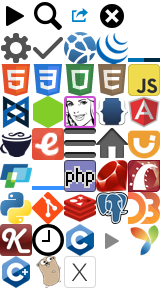
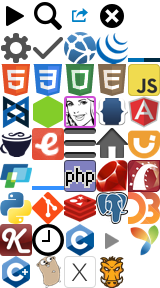
Add Grunt documentation

Changed region(s): [[0.625, 0.875, 0.7812, 1.0]]

diff --git a/assets/stylesheets/global/_icons.scss b/assets/stylesheets/global/_icons.scss
@@ -54,3 +54,4 @@
 ._icon-cpp:before           { background-position: 0 -8rem; }
 ._icon-go:before            { background-position: -1rem -8rem; }
 ._icon-express:before       { background-position: -2rem -8rem; }
+._icon-grunt:before         { background-position: -3rem -8rem; }

diff --git a/assets/stylesheets/pages/_grunt.scss b/assets/stylesheets/pages/_grunt.scss
@@ -1,0 +1,8 @@
+._grunt {
+  padding-left: 1rem;
+
+  h1, h2, h3 { margin-left: -1rem; }
+  h2 { @extend %block-heading; }
+  h3 { @extend %block-label, %label-blue; }
+  p > code { @extend %label; }
+}

diff --git a/assets/stylesheets/application.css.scss b/assets/stylesheets/application.css.scss
@@ -38,6 +38,7 @@
         'pages/jquery',
         'pages/knockout',
         'pages/git',
+        'pages/grunt',
         'pages/less',
         'pages/lodash',
         'pages/mdn',

diff --git a/lib/docs/filters/grunt/entries.rb b/lib/docs/filters/grunt/entries.rb
@@ -1,0 +1,34 @@
+module Docs
+  class Grunt
+    class EntriesFilter < Docs::EntriesFilter
+      def get_name
+        at_css('h1').content
+      end
+
+      def get_type
+        if name.starts_with?('grunt') || name == 'Inside Tasks'
+          name
+        else
+          'Miscellaneous'
+        end
+      end
+
+      def additional_entries
+        return [] unless subpath.starts_with?('api')
+
+        css('h3').each_with_object [] do |node, entries|
+          name = node.content
+          name.remove! %r{\s.+\z}
+
+          next if name == self.name
+
+          entries << [name, node['id']]
+        end
+      end
+
+      def include_default_entry?
+        name != 'Inside Tasks'
+      end
+    end
+  end
+end

diff --git a/lib/docs/scrapers/grunt.rb b/lib/docs/scrapers/grunt.rb
@@ -1,0 +1,27 @@
+module Docs
+  class Grunt < UrlScraper
+    self.name = 'Grunt'
+    self.type = 'grunt'
+    self.version = '0.4.4'
+    self.base_url = 'http://gruntjs.com/'
+    self.root_path = 'getting-started'
+    self.initial_paths = %w(api/grunt)
+
+    html_filters.push 'grunt/clean_html', 'grunt/entries'
+
+    options[:only] = %w(
+      configuring-tasks
+      sample-gruntfile
+      creating-tasks
+      using-the-cli
+    )
+    options[:only_patterns] = [/\Aapi\//]
+
+    options[:container] = '.container > .row-fluid'
+
+    options[:attribution] = <<-HTML
+      &copy; 2014 Grunt Team<br>
+      Licensed under the MIT License.
+    HTML
+  end
+end

diff --git a/lib/docs/filters/grunt/clean_html.rb b/lib/docs/filters/grunt/clean_html.rb
@@ -1,0 +1,28 @@
+module Docs
+  class Grunt
+    class CleanHtmlFilter < Filter
+      def call
+        @doc = at_css('.hero-unit')
+
+        if root_page?
+          at_css('h1').content = 'Grunt'
+        end
+
+        css('.end-link').remove
+
+        # Put id attributes on headings
+        css('a.anchor').each do |node|
+          node.parent['id'] = node['name']
+          node.before(node.children).remove
+        end
+
+        # Remove code highlighting
+        css('pre').each do |node|
+          node.content = node.content
+        end
+
+        doc
+      end
+    end
+  end
+end
